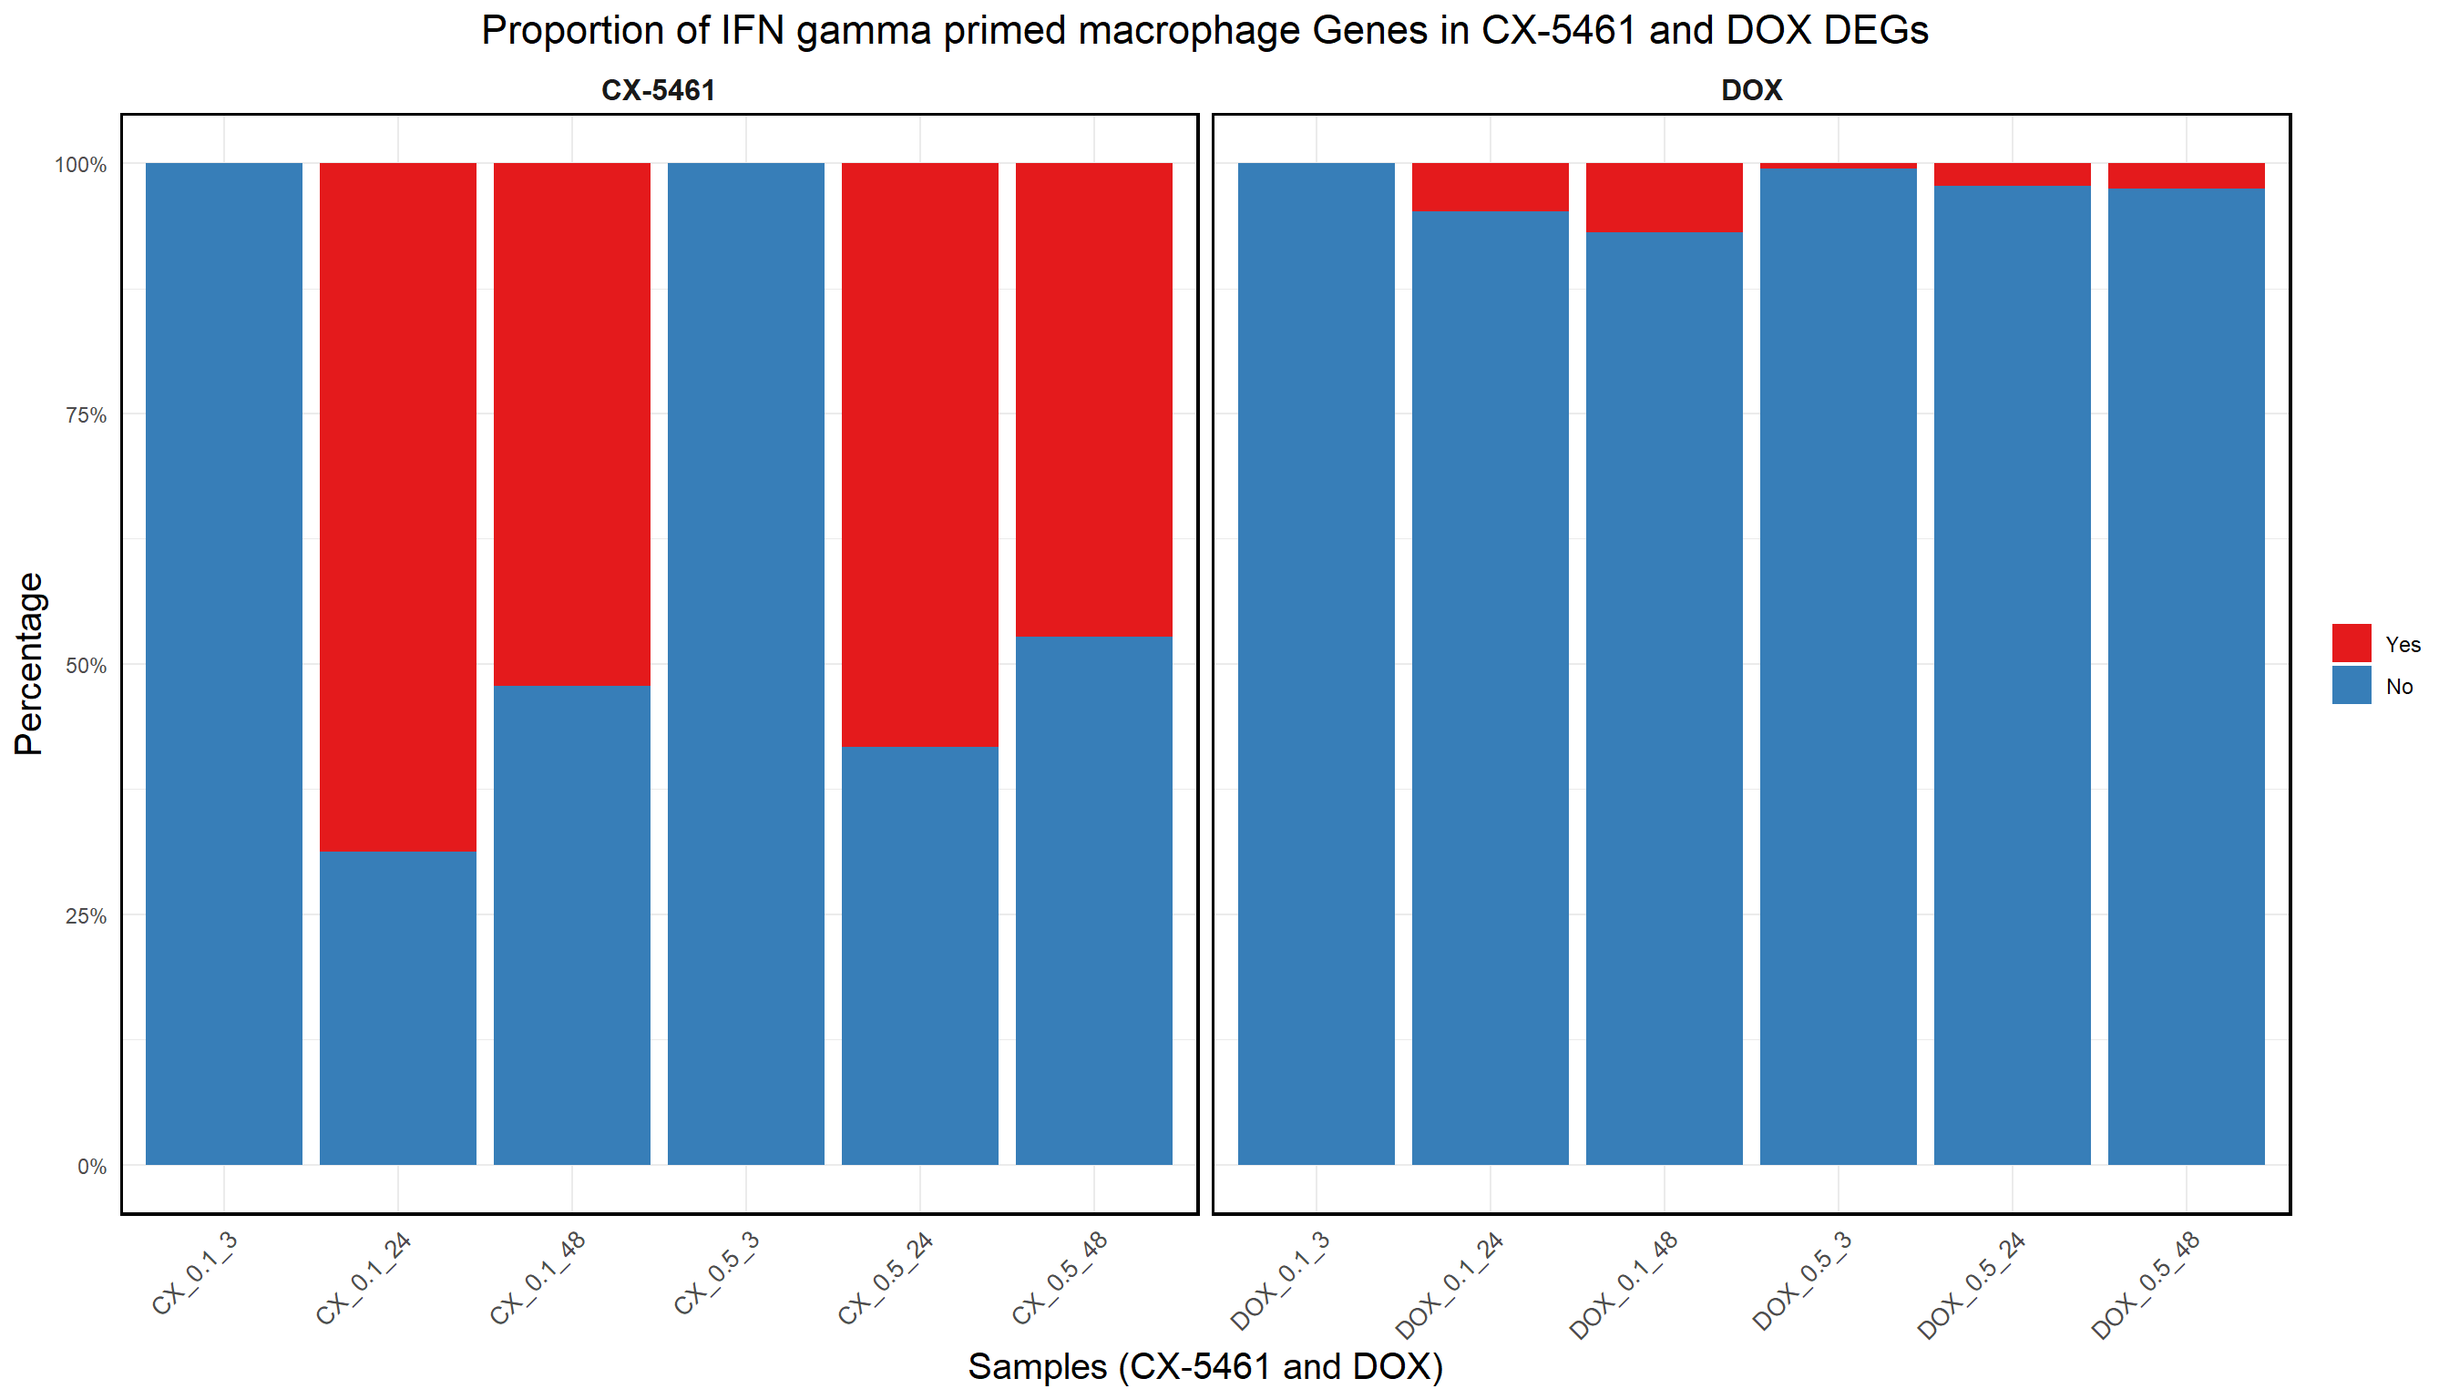
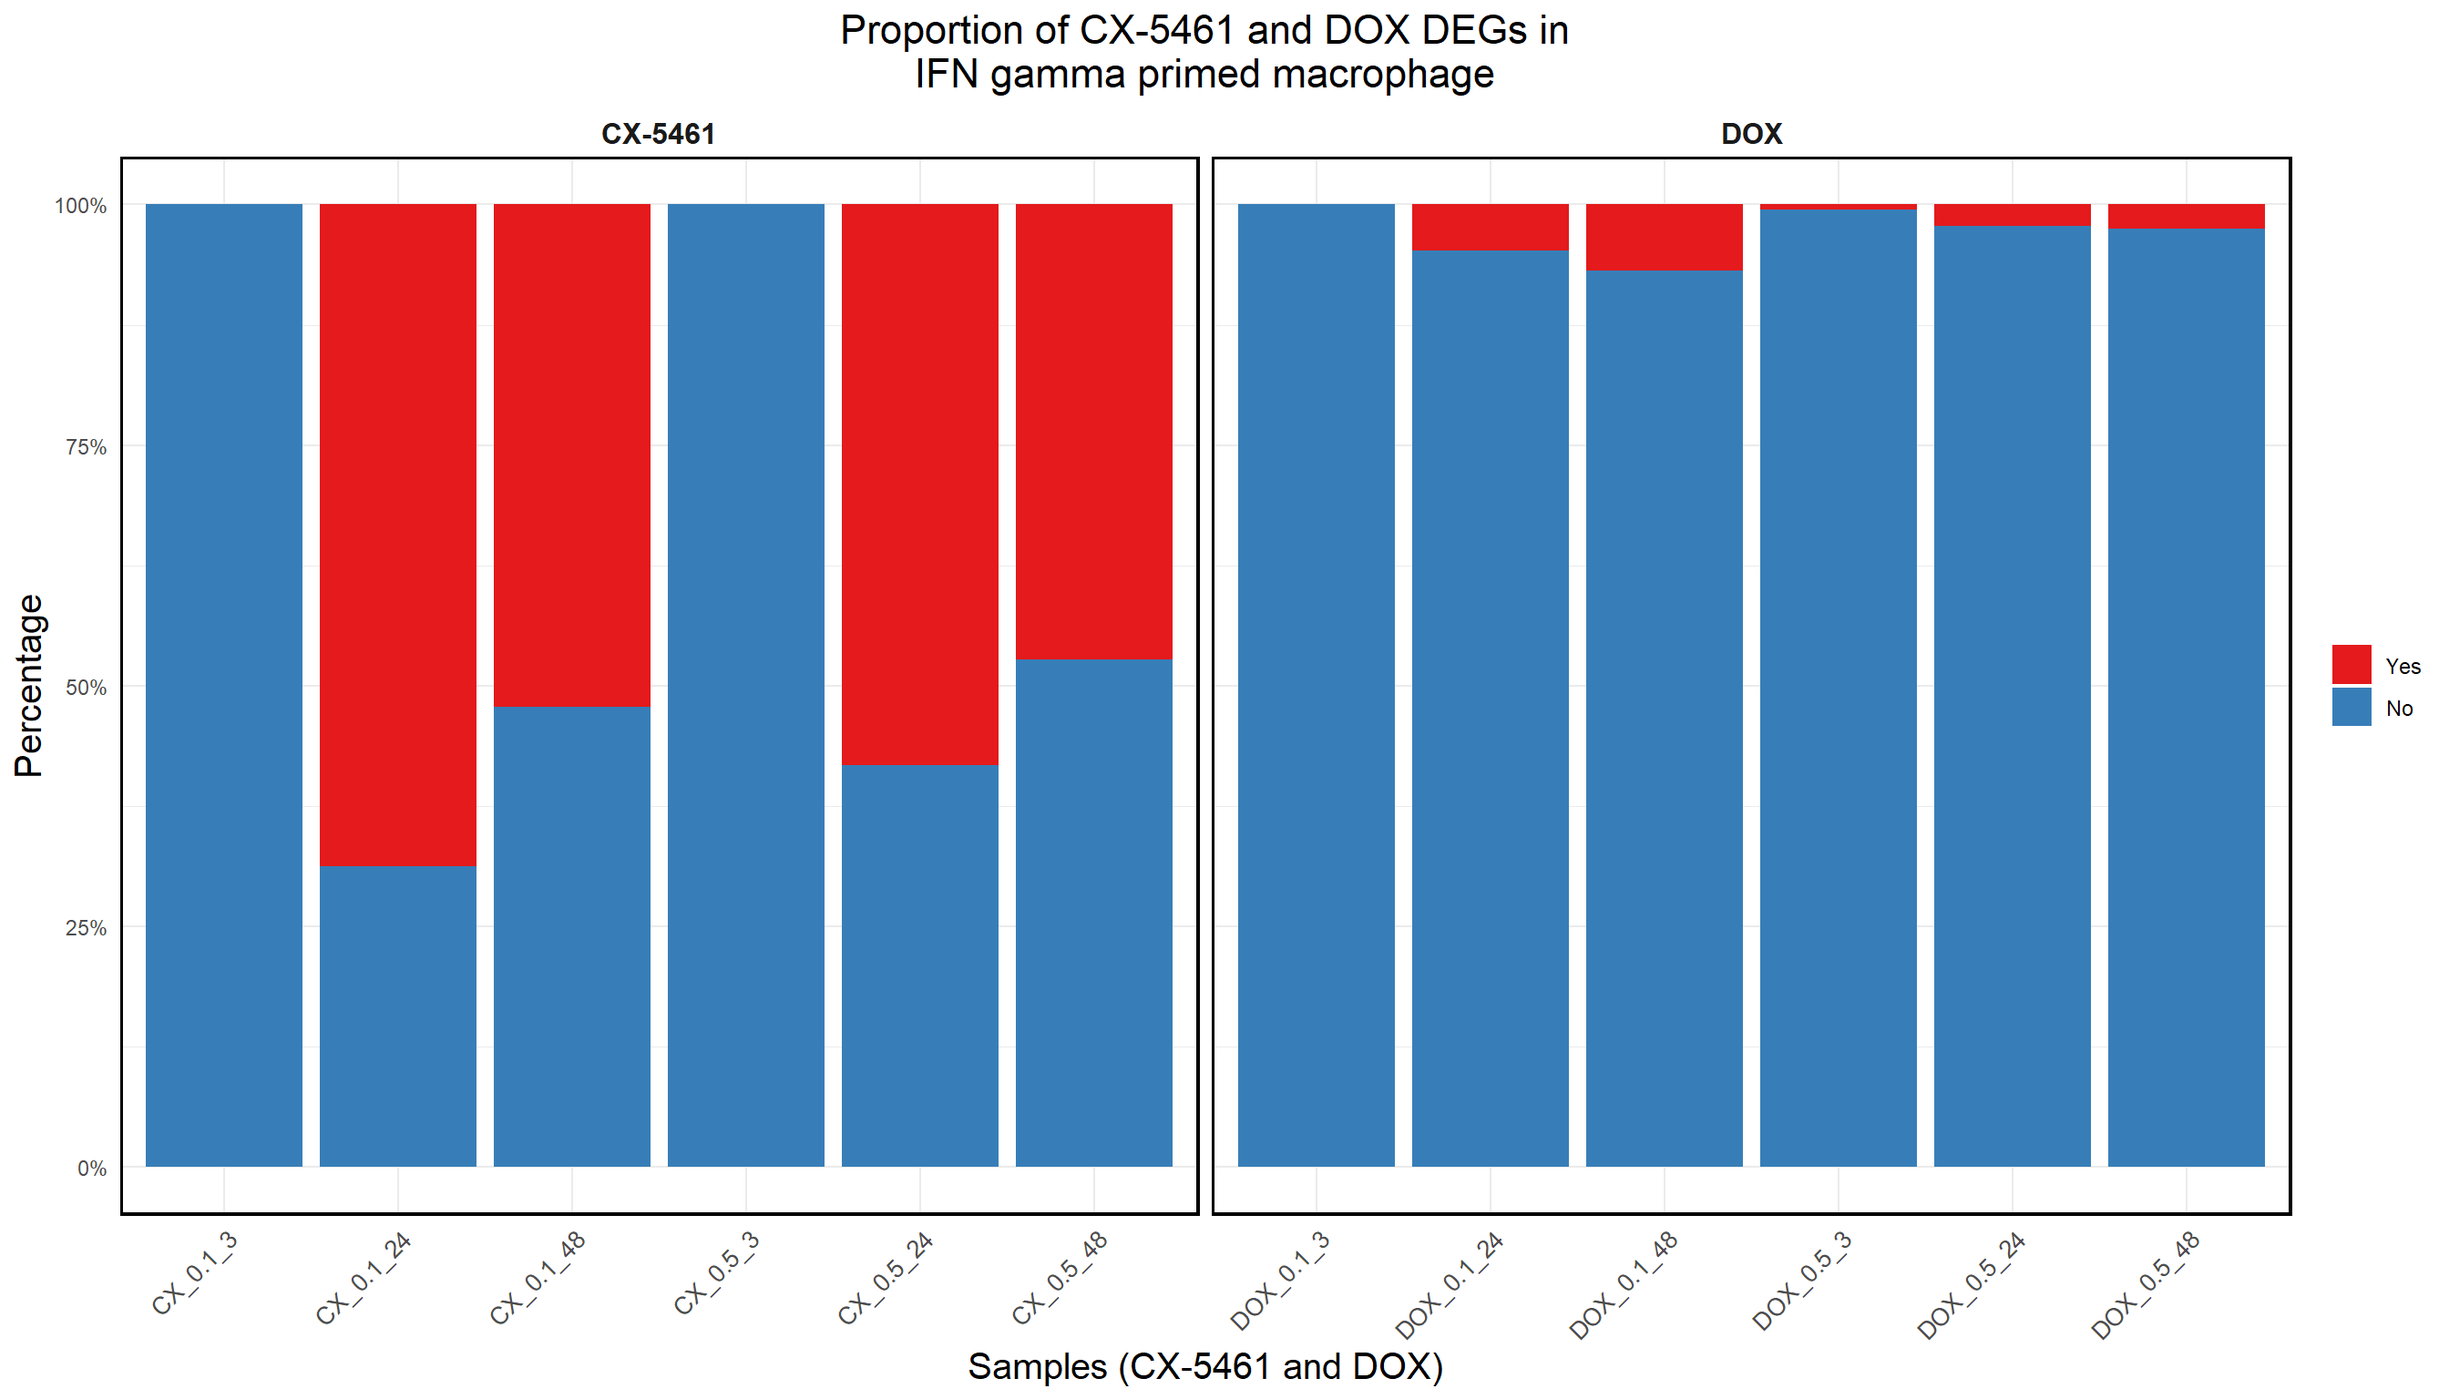
Commit

diff --git a/docs/Macrophage.html b/docs/Macrophage.html
@@ -512,15 +512,15 @@ project makes it easier to run your code on other machines.</p>
 <div class="panel panel-default">
 <div class="panel-heading">
 <p class="panel-title">
-<a data-toggle="collapse" data-parent="#workflowr-checks" href="#strongRepositoryversionstrongahrefhttpsgithubcomsayanpaul01CX5461Projecttree1c452e8edce05d8c2b57824fd14e295a7ebb85actargetblank1c452e8a">
+<a data-toggle="collapse" data-parent="#workflowr-checks" href="#strongRepositoryversionstrongahrefhttpsgithubcomsayanpaul01CX5461Projecttree10d28dd7ba8a410e15ba473a9c14c68fd3eb544atargetblank10d28dda">
 <span class="glyphicon glyphicon-ok text-success"
 aria-hidden="true"></span> <strong>Repository version:</strong>
-<a href="https://github.com/sayanpaul01/CX5461_Project/tree/1c452e8edce05d8c2b57824fd14e295a7ebb85ac" target="_blank">1c452e8</a>
+<a href="https://github.com/sayanpaul01/CX5461_Project/tree/10d28dd7ba8a410e15ba473a9c14c68fd3eb544a" target="_blank">10d28dd</a>
 </a>
 </p>
 </div>
 <div
[2 lines of base64/hex data omitted]
 class="panel-collapse collapse">
 <div class="panel-body">
 <p>
@@ -530,7 +530,7 @@ reproducibility.
 </p>
 <p>
 The results in this page were generated with repository version
-<a href="https://github.com/sayanpaul01/CX5461_Project/tree/1c452e8edce05d8c2b57824fd14e295a7ebb85ac" target="_blank">1c452e8</a>.
+<a href="https://github.com/sayanpaul01/CX5461_Project/tree/10d28dd7ba8a410e15ba473a9c14c68fd3eb544a" target="_blank">10d28dd</a>.
 See the <em>Past versions</em> tab to see a history of the changes made
 to the R Markdown and HTML files.
 </p>
@@ -548,6 +548,7 @@ Ignored files:
     Ignored:    .RData
     Ignored:    .Rhistory
     Ignored:    .Rproj.user/
+    Ignored:    analysis/figure/
 
 Unstaged changes:
     Modified:   analysis/Macrophage.Rmd
@@ -596,6 +597,40 @@ Message
 </tr>
 </thead>
 <tbody>
+<tr>
+<td>
+Rmd
+</td>
+<td>
+<a href="https://github.com/sayanpaul01/CX5461_Project/blob/10d28dd7ba8a410e15ba473a9c14c68fd3eb544a/analysis/Macrophage.Rmd" target="_blank">10d28dd</a>
+</td>
+<td>
+sayanpaul01
+</td>
+<td>
+2025-03-05
+</td>
+<td>
+Commit
+</td>
+</tr>
+<tr>
+<td>
+html
+</td>
+<td>
+<a href="https://rawcdn.githack.com/sayanpaul01/CX5461_Project/10d28dd7ba8a410e15ba473a9c14c68fd3eb544a/docs/Macrophage.html" target="_blank">10d28dd</a>
+</td>
+<td>
+sayanpaul01
+</td>
+<td>
+2025-03-05
+</td>
+<td>
+Commit
+</td>
+</tr>
 <tr>
 <td>
 Rmd
@@ -853,10 +888,14 @@ sayanpaul01
 class="section level2">
 <h2><strong>📌 Proportion of Macrophage genes in CX and DOX
 DEGs</strong></h2>
-</div>
-<div id="read-and-process-data" class="section level2">
-<h2><strong>📌 Read and Process Data</strong></h2>
-<pre class="r"><code># Load DEGs Data
+<pre class="r"><code># Load necessary libraries
+library(dplyr)
+library(ggplot2)
+library(tidyr)
+library(org.Hs.eg.db)
+library(AnnotationDbi)
+
+# Load DEGs Data
 CX_0.1_3 &lt;- read.csv(&quot;data/DEGs/Toptable_CX_0.1_3.csv&quot;)
 CX_0.1_24 &lt;- read.csv(&quot;data/DEGs/Toptable_CX_0.1_24.csv&quot;)
 CX_0.1_48 &lt;- read.csv(&quot;data/DEGs/Toptable_CX_0.1_48.csv&quot;)
@@ -883,13 +922,9 @@ DEG8 &lt;- as.character(DOX_0.1_24$Entrez_ID[DOX_0.1_24$adj.P.Val &lt; 0.05])
 DEG9 &lt;- as.character(DOX_0.1_48$Entrez_ID[DOX_0.1_48$adj.P.Val &lt; 0.05])
 DEG10 &lt;- as.character(DOX_0.5_3$Entrez_ID[DOX_0.5_3$adj.P.Val &lt; 0.05])
 DEG11 &lt;- as.character(DOX_0.5_24$Entrez_ID[DOX_0.5_24$adj.P.Val &lt; 0.05])
-DEG12 &lt;- as.character(DOX_0.5_48$Entrez_ID[DOX_0.5_48$adj.P.Val &lt; 0.05])</code></pre>
-</div>
-<div id="proportion-of-macrophage-genes-in-cx-and-dox-degs-datasets"
-class="section level2">
-<h2><strong>📌 Proportion of Macrophage genes in CX and DOX DEGs
-datasets</strong></h2>
-<pre class="r"><code># Define CX-5461 DEG lists
+DEG12 &lt;- as.character(DOX_0.5_48$Entrez_ID[DOX_0.5_48$adj.P.Val &lt; 0.05])
+
+# Define CX-5461 DEG lists
 CX_DEGs &lt;- list(
   &quot;CX_0.1_3&quot; = DEG1, &quot;CX_0.1_24&quot; = DEG2, &quot;CX_0.1_48&quot; = DEG3,
   &quot;CX_0.5_3&quot; = DEG4, &quot;CX_0.5_24&quot; = DEG5, &quot;CX_0.5_48&quot; = DEG6
@@ -901,70 +936,56 @@ DOX_DEGs &lt;- list(
   &quot;DOX_0.5_3&quot; = DEG10, &quot;DOX_0.5_24&quot; = DEG11, &quot;DOX_0.5_48&quot; = DEG12
 )
 
-# Load Macrophage_new dataset (Use `Entrez_ID` for matching)
+# Load Macrophage dataset (Use `Entrez_ID` for matching)
 Macrophage_genes &lt;- na.omit(macrophage_new$Entrez_ID)  # Keep only Entrez_IDs
 
-# **Process CX-5461 Samples**
-CX_DEGs_df &lt;- bind_rows(
-  lapply(CX_DEGs, function(ids) data.frame(Entrez_ID = ids, Sample_Type = &quot;CX-5461&quot;)),
-  .id = &quot;Sample&quot;
-) %&gt;%
-  mutate(Category = ifelse(Entrez_ID %in% Macrophage_genes, &quot;Yes&quot;, &quot;No&quot;)) %&gt;%
-  group_by(Sample, Sample_Type, Category) %&gt;%
-  summarise(Count = n(), .groups = &quot;drop&quot;) %&gt;%
-  group_by(Sample, Sample_Type) %&gt;%
-  mutate(Percentage = (Count / sum(Count)) * 100)
+total_macrophage_genes &lt;- length(Macrophage_genes)  # Total Macrophage genes count
 
-# **Process DOX Samples**
-DOX_DEGs_df &lt;- bind_rows(
-  lapply(DOX_DEGs, function(ids) data.frame(Entrez_ID = ids, Sample_Type = &quot;DOX&quot;)),
-  .id = &quot;Sample&quot;
-) %&gt;%
-  mutate(Category = ifelse(Entrez_ID %in% Macrophage_genes, &quot;Yes&quot;, &quot;No&quot;)) %&gt;%
-  group_by(Sample, Sample_Type, Category) %&gt;%
-  summarise(Count = n(), .groups = &quot;drop&quot;) %&gt;%
-  group_by(Sample, Sample_Type) %&gt;%
-  mutate(Percentage = (Count / sum(Count)) * 100)
+# Function to calculate the proportion of DEGs in Macrophage genes
+calculate_macrophage_proportion &lt;- function(deg_list, drug_name) {
+  data.frame(
+    Sample = names(deg_list),
+    Drug = drug_name,
+    Macrophage_Target_DEGs = sapply(deg_list, function(ids) sum(ids %in% Macrophage_genes)),
+    Non_Macrophage_Target_DEGs = sapply(deg_list, function(ids) total_macrophage_genes - sum(ids %in% Macrophage_genes))
+  ) %&gt;%
+    mutate(
+      Yes_Proportion = (Macrophage_Target_DEGs / total_macrophage_genes) * 100,
+      No_Proportion = (Non_Macrophage_Target_DEGs / total_macrophage_genes) * 100
+    )
+}
 
-# **Merge CX and DOX Dataframes**
-proportion_data &lt;- bind_rows(CX_DEGs_df, DOX_DEGs_df)
+# Calculate Proportions
+CX_proportion &lt;- calculate_macrophage_proportion(CX_DEGs, &quot;CX-5461&quot;)
+DOX_proportion &lt;- calculate_macrophage_proportion(DOX_DEGs, &quot;DOX&quot;)
 
+# Combine Data
+proportion_data &lt;- bind_rows(CX_proportion, DOX_proportion)
 
+# Convert to long format for visualization
+proportion_long &lt;- proportion_data %&gt;%
+  dplyr::select(Sample, Drug, Yes_Proportion, No_Proportion) %&gt;%
+  pivot_longer(cols = c(Yes_Proportion, No_Proportion), names_to = &quot;Category&quot;, values_to = &quot;Percentage&quot;) %&gt;%
+  mutate(Category = ifelse(Category == &quot;Yes_Proportion&quot;, &quot;Yes&quot;, &quot;No&quot;))
 
-# **Fix: Normalize Percentages to Sum Exactly 100%**
-proportion_data &lt;- proportion_data %&gt;%
-  group_by(Sample, Sample_Type) %&gt;%
-  mutate(Percentage = round(Percentage, 2)) %&gt;%  # Round percentages
-  mutate(Adjustment = 100 - sum(Percentage, na.rm = TRUE)) %&gt;%  # Compute rounding difference
-  mutate(Percentage = ifelse(Category == &quot;No&quot;, Percentage + Adjustment, Percentage)) %&gt;%  # Apply adjustment to &quot;No&quot;
-  mutate(Percentage = ifelse(Percentage &lt; 0, 0, Percentage)) %&gt;%  # Prevent negatives
-  mutate(Percentage = ifelse(Percentage &gt; 100, 100, Percentage)) %&gt;%  # Prevent values &gt; 100
-  ungroup() %&gt;%
-  replace_na(list(Percentage = 0))  # Ensure no NA values
-
-# **Ensure &quot;Yes&quot; is at the Bottom and &quot;No&quot; is at the Top**
-proportion_data$Category &lt;- factor(proportion_data$Category, levels = c(&quot;Yes&quot;, &quot;No&quot;))
-
-
-# **Ensure &quot;Yes&quot; is at the Bottom and &quot;No&quot; is at the Top**
-proportion_data$Category &lt;- factor(proportion_data$Category, levels = c(&quot;Yes&quot;, &quot;No&quot;))
-
-# Define correct order for samples
+# Ensure correct order of samples on X-axis
 sample_order &lt;- c(
   &quot;CX_0.1_3&quot;, &quot;CX_0.1_24&quot;, &quot;CX_0.1_48&quot;, &quot;CX_0.5_3&quot;, &quot;CX_0.5_24&quot;, &quot;CX_0.5_48&quot;,
   &quot;DOX_0.1_3&quot;, &quot;DOX_0.1_24&quot;, &quot;DOX_0.1_48&quot;, &quot;DOX_0.5_3&quot;, &quot;DOX_0.5_24&quot;, &quot;DOX_0.5_48&quot;
 )
-proportion_data$Sample &lt;- factor(proportion_data$Sample, levels = sample_order)
+proportion_long$Sample &lt;- factor(proportion_long$Sample, levels = sample_order, ordered = TRUE)
 
+# Ensure &quot;Yes&quot; is at the Bottom and &quot;No&quot; is at the Top
+proportion_long$Category &lt;- factor(proportion_long$Category, levels = c(&quot;Yes&quot;, &quot;No&quot;))
 
-# **Generate Proportion Plot for CX-5461 and DOX Separately**
-ggplot(proportion_data, aes(x = Sample, y = Percentage, fill = Category)) +
+# Generate Stacked Bar Plot
+ggplot(proportion_long, aes(x = Sample, y = Percentage, fill = Category)) +
   geom_bar(stat = &quot;identity&quot;, position = &quot;stack&quot;) +  # Stacked bars
-  facet_wrap(~Sample_Type, scales = &quot;free_x&quot;) +  # Separate CX-5461 and DOX
+  facet_wrap(~Drug, scales = &quot;free_x&quot;) +  # Separate CX-5461 and DOX
   scale_y_continuous(labels = scales::percent_format(scale = 1), limits = c(0, 100)) +  # Y-axis as percentage
-  scale_fill_manual(values = c(&quot;Yes&quot; = &quot;#e41a1c&quot;, &quot;No&quot; = &quot;#377eb8&quot;)) +  # Yes (Red) at Bottom, No (Blue) on Top
+  scale_fill_manual(values = c(&quot;Yes&quot; = &quot;#e41a1c&quot;, &quot;No&quot; = &quot;#377eb8&quot;)) +  # Yes (Red), No (Blue)
   labs(
-    title = &quot;Proportion of IFN gamma primed macrophage Genes in CX-5461 and DOX DEGs&quot;,
+    title = &quot;Proportion of IFN gamma primed Macrophage Genes in CX-5461 and DOX DEGs&quot;,
     x = &quot;Samples (CX-5461 and DOX)&quot;,
     y = &quot;Percentage&quot;,
     fill = &quot;Category&quot;
@@ -975,48 +996,11 @@ ggplot(proportion_data, aes(x = Sample, y = Percentage, fill = Category)) +
     axis.title = element_text(size = 15, color = &quot;black&quot;),
     axis.text.x = element_text(size = 10, angle = 45, hjust = 1),
     legend.title = element_blank(),
-    panel.border = element_rect(color = &quot;black&quot;, fill = NA, linewidth = 1.2),  # Updated for ggplot2 3.4.0+
+    panel.border = element_rect(color = &quot;black&quot;, fill = NA, linewidth = 1.2),  
     strip.background = element_blank(),
     strip.text = element_text(size = 12, face = &quot;bold&quot;)
   )</code></pre>
-<p><img src="figure/Macrophage.Rmd/proportion1-1.png" width="1344" style="display: block; margin: auto;" /></p>
-<p>
-<button type="button" class="btn btn-default btn-xs btn-workflowr btn-workflowr-fig" data-toggle="collapse" data-target="#fig-proportion1-1">
-Past versions of proportion1-1.png
-</button>
-</p>
-<div id="fig-proportion1-1" class="collapse">
-<div class="table-responsive">
-<table class="table table-condensed table-hover">
-<thead>
-<tr>
-<th>
-Version
-</th>
-<th>
-Author
-</th>
-<th>
-Date
-</th>
-</tr>
-</thead>
-<tbody>
-<tr>
-<td>
-<a href="https://github.com/sayanpaul01/CX5461_Project/blob/46aa22b9d3ecdb0423e688fbc2c17281dcc9bddd/docs/figure/Macrophage.Rmd/proportion1-1.png" target="_blank">46aa22b</a>
-</td>
-<td>
-sayanpaul01
-</td>
-<td>
-2025-03-01
-</td>
-</tr>
-</tbody>
-</table>
-</div>
-</div>
+<p><img src="figure/Macrophage.Rmd/load_DEGs-1.png" width="672" style="display: block; margin: auto;" /></p>
 </div>
 <div
 id="correlation-of-macrophage-genes-with-cx-and-dox-expressed-genes"
@@ -1485,6 +1469,43 @@ ggplot(proportion_long, aes(x = Group, y = Percentage, fill = Category)) +
     strip.text = element_text(size = 12, face = &quot;bold&quot;)
   )</code></pre>
 <p><img src="figure/Macrophage.Rmd/prop%20DNA-1.png" width="672" style="display: block; margin: auto;" /></p>
+<p>
+<button type="button" class="btn btn-default btn-xs btn-workflowr btn-workflowr-fig" data-toggle="collapse" data-target="#fig-no-spaces-prop-DNA-1">
+Past versions of "prop DNA-1.png"
+</button>
+</p>
+<div id="fig-no-spaces-prop-DNA-1" class="collapse">
+<div class="table-responsive">
+<table class="table table-condensed table-hover">
+<thead>
+<tr>
+<th>
+Version
+</th>
+<th>
+Author
+</th>
+<th>
+Date
+</th>
+</tr>
+</thead>
+<tbody>
+<tr>
+<td>
+<a href="https://github.com/sayanpaul01/CX5461_Project/blob/10d28dd7ba8a410e15ba473a9c14c68fd3eb544a/docs/figure/Macrophage.Rmd/prop DNA-1.png" target="_blank">10d28dd</a>
+</td>
+<td>
+sayanpaul01
+</td>
+<td>
+2025-03-05
+</td>
+</tr>
+</tbody>
+</table>
+</div>
+</div>
 </div>
 <div id="proportion-of-macrophage-genes-in-corrmotif-0.5-micromolar"
 class="section level2">
@@ -1612,6 +1633,43 @@ ggplot(proportion_long, aes(x = Group, y = Percentage, fill = Category)) +
     strip.text = element_text(size = 12, face = &quot;bold&quot;)
   )</code></pre>
 <p><img src="figure/Macrophage.Rmd/prop%200.5-1.png" width="672" style="display: block; margin: auto;" /></p>
+<p>
+<button type="button" class="btn btn-default btn-xs btn-workflowr btn-workflowr-fig" data-toggle="collapse" data-target="#fig-no-spaces-prop-0.5-1">
+Past versions of "prop 0.5-1.png"
+</button>
+</p>
+<div id="fig-no-spaces-prop-0.5-1" class="collapse">
+<div class="table-responsive">
+<table class="table table-condensed table-hover">
+<thead>
+<tr>
+<th>
+Version
+</th>
+<th>
+Author
+</th>
+<th>
+Date
+</th>
+</tr>
+</thead>
+<tbody>
+<tr>
+<td>
+<a href="https://github.com/sayanpaul01/CX5461_Project/blob/10d28dd7ba8a410e15ba473a9c14c68fd3eb544a/docs/figure/Macrophage.Rmd/prop 0.5-1.png" target="_blank">10d28dd</a>
+</td>
+<td>
+sayanpaul01
+</td>
+<td>
+2025-03-05
+</td>
+</tr>
+</tbody>
+</table>
+</div>
+</div>
 <br>
 <p>
 <button type="button" class="btn btn-default btn-workflowr btn-workflowr-sessioninfo" data-toggle="collapse" data-target="#workflowr-sessioninfo" style="display: block;">
